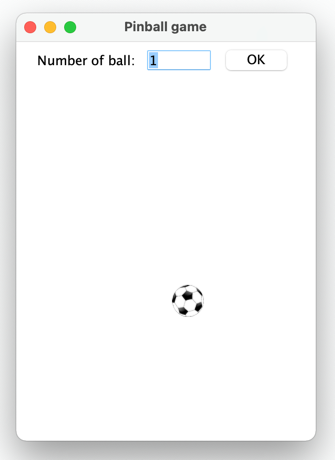
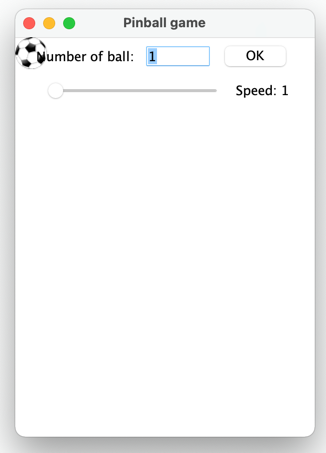
init commit for lesson 07; This version for student.

diff --git a/app/src/main/java/org/dii/oop/lesson07/exercise01/PinballApp.java b/app/src/main/java/org/dii/oop/lesson07/exercise01/PinballApp.java
@@ -1,12 +1,9 @@
 package org.dii.oop.lesson07.exercise01;
 
 import javax.swing.*;
-import javax.swing.event.ChangeEvent;
-import javax.swing.event.ChangeListener;
-import java.awt.event.ActionEvent;
-import java.awt.event.ActionListener;
 
-public class PinballApp extends JFrame implements ActionListener, ChangeListener {
+public class PinballApp extends JFrame {
+    protected final int FPS = 1000/120;
     private final BackgroundPanel panel;
     private final JTextField textField;
     private final JLabel labelSpeed;
@@ -17,10 +14,12 @@ public class PinballApp extends JFrame implements ActionListener, ChangeListener
         panel = new BackgroundPanel();
         textField = new JTextField("1", 5);
         JButton button = new JButton("OK");
-        button.addActionListener(this);
 
         JSlider ballSpeed = new JSlider(JSlider.HORIZONTAL, 1, 10, 1);
-        ballSpeed.addChangeListener(this);
+        // TODO: remove this comment and fixed the error,
+        //       this needs an understanding of the Java interface.
+        // button.addActionListener(this);
+        // ballSpeed.addChangeListener(this);
         labelSpeed = new JLabel("Speed: " + panel.getSpeed());
 
         panel.add(new JLabel("Number of ball: "));
@@ -28,30 +27,30 @@ public class PinballApp extends JFrame implements ActionListener, ChangeListener
         panel.add(button);
         panel.add(ballSpeed);
         panel.add(labelSpeed);
+
         add(panel);
 
         setDefaultCloseOperation(JFrame.EXIT_ON_CLOSE);
         pack();
 
-        Timer timer = new Timer(1000/120, panel);
+        Timer timer = new Timer(FPS, panel);
         timer.start();
     }
+    // TODO: uncomment this and fixed the error. This function will call when the user click the button.
+//    @Override
+//    public void actionPerformed(ActionEvent e) {
+//        String strNumOfBall = textField.getText();
+//        System.out.println("Number of ball: " + strNumOfBall);
+//    }
 
-    @Override
-    public void actionPerformed(ActionEvent e) {
-        String strNumOfBall = textField.getText();
-        System.out.println("Number of ball: " + strNumOfBall);
-
-        panel.setNumOfBall(Integer.parseInt(strNumOfBall));
-    }
-
-    @Override
-    public void stateChanged(ChangeEvent e) {
-        JSlider source = (JSlider)e.getSource();
-        if (!source.getValueIsAdjusting()) {
-            int speed = (int) source.getValue();
-            panel.setSpeed(speed);
-            labelSpeed.setText("Speed: " + speed);
-        }
-    }
+    // TODO: uncomment this and fixed the error. This function will call when the user changes the slider.
+//    @Override
+//    public void stateChanged(ChangeEvent e) {
+//        JSlider source = (JSlider)e.getSource();
+//        if (!source.getValueIsAdjusting()) {
+//            int speed = source.getValue();
+//            panel.setSpeed(speed);
+//            labelSpeed.setText("Speed: " + speed);
+//        }
+//    }
 }

diff --git a/app/src/main/java/org/dii/oop/lesson07/exercise01/BackgroundPanel.java b/app/src/main/java/org/dii/oop/lesson07/exercise01/BackgroundPanel.java
@@ -5,54 +5,56 @@ import java.awt.*;
 import java.awt.event.ActionEvent;
 import java.awt.event.ActionListener;
 import java.net.URL;
-import java.util.Vector;
 
 public class BackgroundPanel extends JPanel implements ActionListener {
-    private final Vector<Ball> balls = new Vector<>();
-    private int speed = 1;
+    private final ImageIcon imageIcon;
+    private int x;          // the horizontal position of the ball
+    private int y;          // the vertical position of the ball
+    private int dx = 1;     // control the direction of the ball on a horizontal axis
+    private int dy = 1;     // control the direction of the ball on a vertical axis
+    private int speed = 1;  // control the speed of the ball
 
     public BackgroundPanel() {
         Dimension dimension = new Dimension(300, 400);
         setSize(dimension);
         setPreferredSize(dimension);
         setBackground(Color.white);
-        setNumOfBall(1);
+
+        // ball init
+        URL url = getClass().getResource("images/img0.png"); // "images/img0.png", "images/img1.png", or "images/img2.png"
+        assert url != null;
+        imageIcon = new ImageIcon(url);
     }
 
     @Override
     protected void paintComponent(Graphics g) {
-        for (Ball ball : balls) {
-            ball.paint(g);
-        }
+        // paint the ball image according to the x and y position
+        g.drawImage(imageIcon.getImage(), x, y, null);
     }
 
     @Override
     public void actionPerformed(ActionEvent e) {
-        for (Ball ball : balls) {
-            ball.move(getWidth(), getHeight());
-        }
+//        TODO: uncomment this to make the ball move.
+//        x+=(speed*dx);
+//        if (x<=0 || x>=getWidth()-imageIcon.getIconWidth()) {
+//            dx = -dx;
+//        }
+//        y+=(speed*dy);
+//        if (y<=0 || y>=getHeight()-imageIcon.getIconHeight()) {
+//            dy = -dy;
+//        }
+
+        // repaint the ball image,
+        // the method actionPerformed(ActionEvent e) will be called.
         repaint();
     }
 
-    public void setNumOfBall(int numOfBall) {
-        balls.clear();
-        for (int i=0; i<numOfBall; i++) {
-            URL url = getClass().getResource("images/img" + (i%3) + ".png");
-            assert url != null;
-            Ball ball = new Ball(url, getWidth(), getHeight());
-            ball.setSpeed(speed);
-            balls.addElement(ball);
-        }
-    }
-
-
+    // The encapsulation set method, make the speed attribute be writable
     public void setSpeed(int speed) {
         this.speed = speed;
-        for (Ball ball : balls) {
-            ball.setSpeed(speed);
-        }
     }
 
+    // The encapsulation get method, make the speed attribute be readable
     public int getSpeed() {
         return speed;
     }

diff --git a/lessons-contents/lesson07/exercise01.md b/lessons-contents/lesson07/exercise01.md
@@ -25,7 +25,8 @@ Make the ball bounce left and right on the border of window frame.
    - In our Pinball application, we created `org.dii.oop.lesson07.exercise01.PinballApp` class extends the `javax.swing.JFrame` class which inherit all parent behavior class, so we do not write all code to manage GUI applications just write the code needed for our program.
    - The `javax.swing.JPanel` class is a container that can store a group of components. The main task of JPanel is to organize components, various layouts can be set in JPanel which provides a better organization of components.
    - In our Pinball application, we created `org.dii.oop.lesson07.exercise01.BackgroundPanel` class extends the `javax.swing.JPanel` class which inherit all parent behavior classes and we use this panel to draw the ball image.
-   - Create a new Ball class to keep all information of ball.
+   - Uncomment the code to make the ball move.
+   - After the is moved by the previous step, then organize the code program by creating a new Ball class to keep all information related to the ball in one place including attributes and methods.
      ```
      public class Ball {
        private final ImageIcon imageIcon;
@@ -43,18 +44,13 @@ Make the ball bounce left and right on the border of window frame.
        }
 
        public void paint(Graphics g) {
-         g.drawImage(imageIcon.getImage(), x, y, null);
+         // TODO: Paint the ball image according to the x and y positions.
+         
        }
 
        public void move(int width, int height) {
-         x+=(speed*dx);
-         if (x<=0 || x>=width-imageIcon.getIconWidth()) {
-           dx = -dx;
-         }
-         y+=(speed*dy);
-         if (y<=0 || y>=height-imageIcon.getIconHeight()) {
-           dy = -dy;
-         }
+         // Move the ball move within the boundary of the application window.
+         
        }
 
        public void setSpeed(int speed) {

diff --git a/lessons-contents/lesson07/index.md b/lessons-contents/lesson07/index.md
@@ -1,3 +1,2 @@
 ## [Home](../../README.md) > Lesson07: Overloading
 1. [Exercise 1](exercise01.md)
-2. [Exercise 2](exercise02.md)
